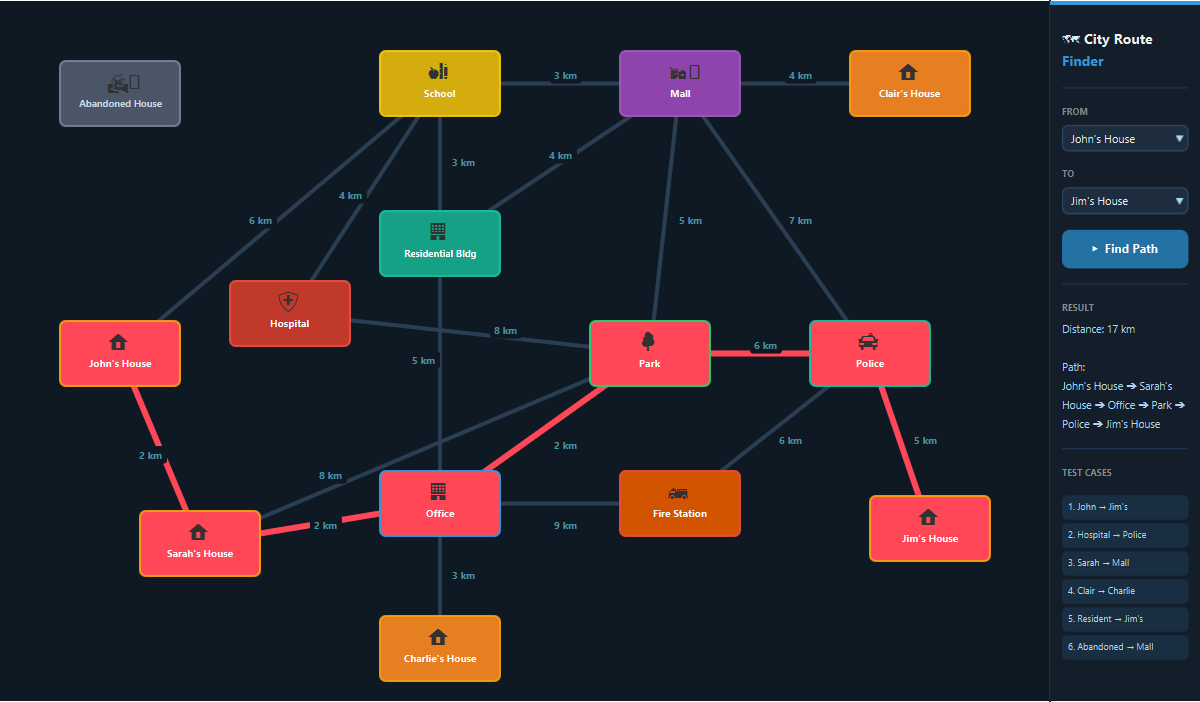
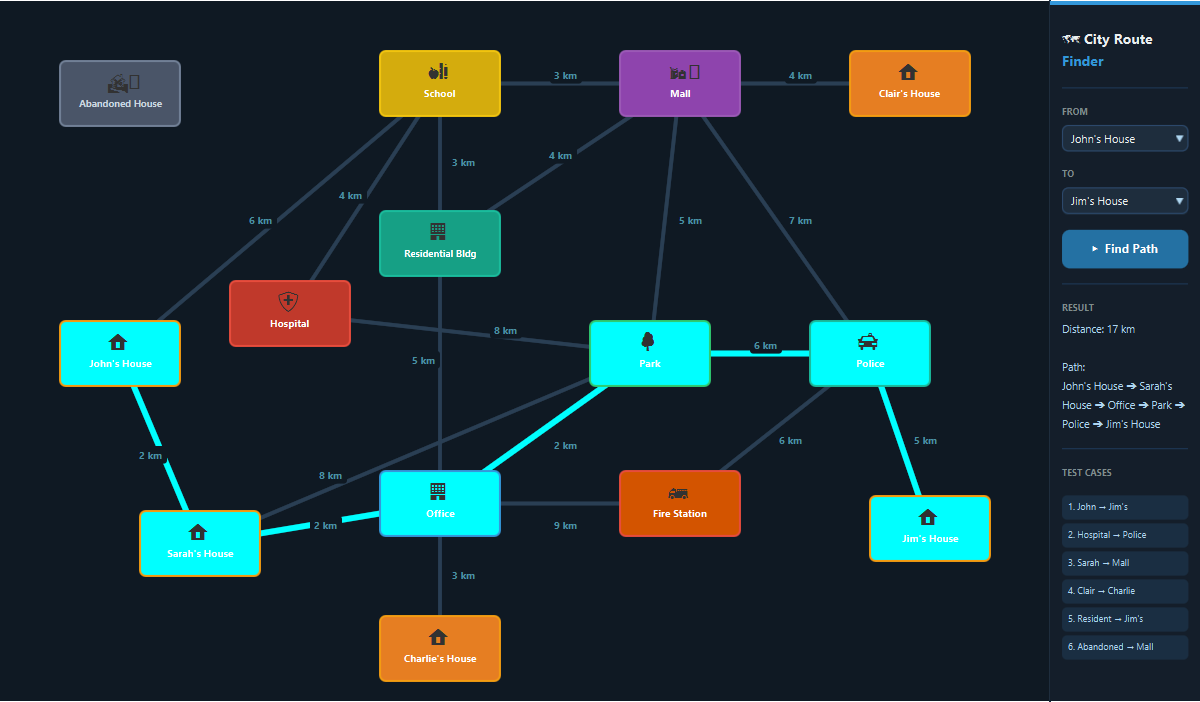
style: update shortest path highlight color to cyan and refresh screenshot

diff --git a/src/main/java/com/example/CityController.java b/src/main/java/com/example/CityController.java
@@ -184,7 +184,7 @@ public class CityController {
     }
 
     private void highlightRoute(List<String> path) {
-        Color highlightColor = Color.web("#FF4757");
+        Color highlightColor = Color.CYAN;
 
         // Highlight Nodes
         for (String loc : path) {

diff --git a/README.md b/README.md
@@ -9,7 +9,7 @@ An interactive desktop application built with **Java** and **JavaFX** that visua
 ![City Route Finder UI](screenshot.png)
 
 - **Interactive Pathfinding**: Select any starting location and destination to compute the optimal route with total distance in kilometers and step-by-step path sequence (`Start ➔ ... ➔ Destination`).
-- **Dynamic Route Highlighting**: The computed shortest path illuminates in a bright, vibrant red (`#FF4757`) across both nodes and roads.
+- **Dynamic Route Highlighting**: The computed shortest path illuminates in a bright, vibrant cyan (`CYAN`) across both nodes and roads.
 - **Dark-Themed Modern UI**: High-contrast JavaFX canvas with distinct color-coded buildings, customized ChoiceBoxes, and clean, non-overlapping road labels.
 - **Special Graph Topologies**:
   - **🏚 Abandoned House**: An isolated node with no road connections, demonstrating unreachable state handling (*"No path found"*).
@@ -55,7 +55,7 @@ An interactive desktop application built with **Java** and **JavaFX** that visua
 |---|---|
 | [`CityGraph.java`](src/main/java/com/example/CityGraph.java) | Adjacency list representation of the city graph, vertices, and weighted road edges |
 | [`ShortPath.java`](src/main/java/com/example/ShortPath.java) | Dijkstra's shortest path algorithm implementation using `java.util.PriorityQueue` |
-| [`CityController.java`](src/main/java/com/example/CityController.java) | Controller managing UI events, path triggers, red visual highlights, resets, and preset test cases |
+| [`CityController.java`](src/main/java/com/example/CityController.java) | Controller managing UI events, path triggers, cyan visual highlights, resets, and preset test cases |
 | [`App.java`](src/main/java/com/example/App.java) | JavaFX Application entry point |
 | [`primary.fxml`](src/main/resources/com/example/primary.fxml) | FXML layout definition for the map canvas and sidebar panel |
 | [`style.css`](src/main/resources/com/example/style.css) | Custom styling for the dark theme, context menus, and controls |
